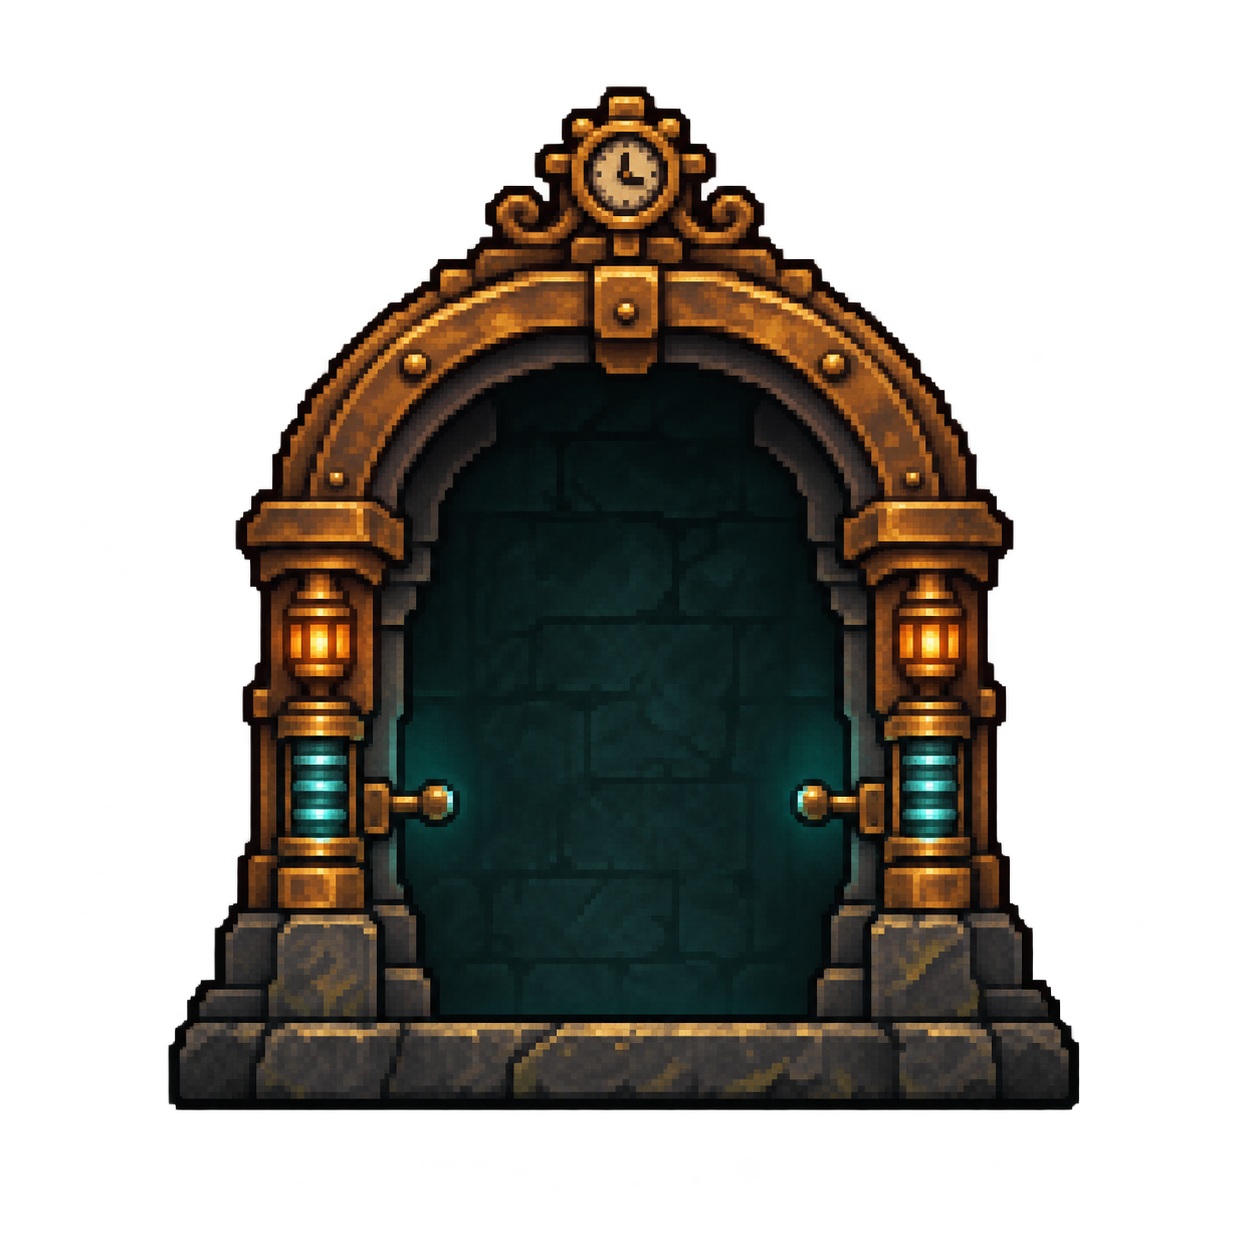
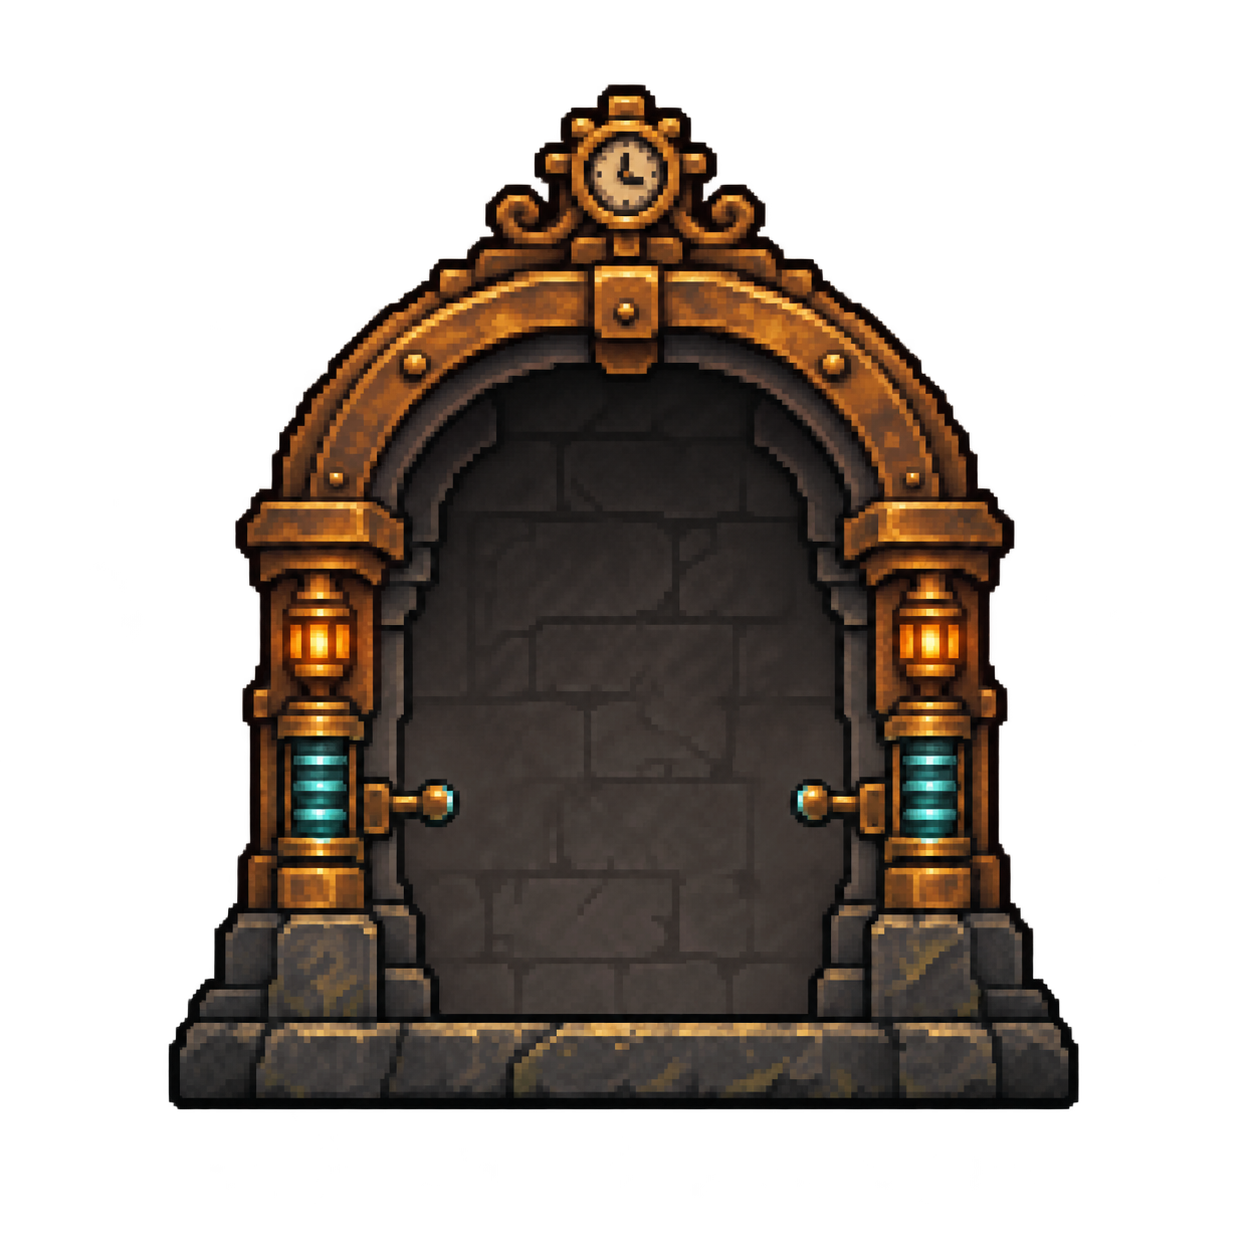
fix: neutral charging chamber and grounded station furnishings

diff --git a/docs/project/worklines/player_presentation_01/scope.md b/docs/project/worklines/player_presentation_01/scope.md
@@ -1,22 +1,26 @@
 # PLAYER-PRESENTATION-01 当前交接
 
-目标：正式主角保持既有体型，完成可见走入充电站、接通电流、恢复和走出的完整休息表现。进度由[任务表](../../tasks.md)维护；最新发布身份见[工作台交接](../mobile_level_workbench_01/scope.md)。
+目标：正式主角保持既有体型，完成走入充电站、接通电流、恢复和走出的完整休息表现；小站服务物件与NPC有完整、稳定的地面支撑。进度由[任务表](../../tasks.md)维护；最新发布身份见[工作台交接](../mobile_level_workbench_01/scope.md)。
 
 运行源码`e2c08e628cbd52c53d3541a30d20166389de0a94`已发布工作台r66；当前分支`fix/stargate-contact-route`，沿已授权`feat/world-review-stargate`接续PR147。未改房间布局、角色碰撞、跳跃、反冲或已接入的渐进贴墙参数。正式入口与工作台共用实现。
 
 ## 当前实现
 
 - 充电补帧与已校准的苏醒、贴墙、上下查看统一以当前正式默认角色motion_v1首帧为母版；头部、胸腹、靴子宽度及原脚底偏移按44wu显示尺度检查。充电使用10张独立姿态，退出接回当前原待机，不用旋转／缩放站姿代替进入和走出。源图、请求、统一尺度与锚点收据归[素材目录](../../../../assets/player_presentation_01/charging/README.md)。
-- WorldRestSequence拥有趋近、入舱、充电、出舱和临时冻结；实际趋近沿PlayerMotor碰撞步进，途中失去支撑、挡路或新伤害会取消。WorldChargingStation使用黄铜拱架、暗色内壁、侧线圈、前柱和底槛分层，适配正式角色尺度并与草边接地。旧六帧站体和瞬时恢复光环消费者退休。
+- WorldRestSequence拥有趋近、入舱、充电、出舱和临时冻结；实际趋近沿PlayerMotor碰撞步进，途中失去支撑、挡路或新伤害会取消。WorldChargingStation使用黄铜拱架、暖灰石质内腔、侧线圈、前柱和底槛分层；青绿只留在线圈与电流，适配正式角色尺度并与草边接地。旧六帧站体和瞬时恢复光环消费者退休。
 - FixedWorldApp仍为休息提交唯一主人。充电中段仅提交一次；成功才恢复HP、登记复位点并推进周期，播放恢复音与柔光。失败不改变资源与周期、不播成功反馈。共鸣、永久事实和当前房间怪物的延迟刷新规则保持，详见[休息与保存](../../../bible/home_and_save.md)。
 - 电流和接通／恢复声音使用共享GameAudio有界声部，显式冻结世界时允许播放。暂停菜单冻结姿态、电流和声音；切房、退出、生命周期变化清除临时所有权。没有独立无限声源或无界粒子。
 - 数值归RestPresentation资源：入舱0.64秒、充电1.4秒（0.85秒提交）、出舱0.72秒；闪光0.55秒，峰值透明度0.075，减弱特效0.025。苏醒、查看和墙面能力的既有规范不变。
+
+- P01回收匠与柜台位于升降井东岸固定地面，归途钟台底座完整收在西岸，储物箱位于棚屋右侧；风铃架、路灯、告示与剧情NPC按实际平台接地。平台、两段载台和通路配置未改。
 
 ## 检查与边界
 
 `tests/test_player_pose_registration.py`六项检查真实母版、中性头身／靴子宽度、脚底登记、统一缩放、充电帧差异及站体前后层像素来源。`rest-station`检查正常恢复、重复交互、保存失败、暂停、阻挡趋近、同帧伤害优先、减弱特效、切房和返回标题；`focus_heal`24项与`demo_regressions`20项分别验证共鸣不被休息重置、当前房间不当场复活敌人及离开后刷新。本次纠正后者过时的怪物ID，使其重新指向当前P21出口守卫。
 
-日常CI四项与文档检查通过。正常Godot窗口按P01局部起点检查原待机→趋近→入舱→充电→退出接续，站体根基、底槛遮挡和身体尺度已实看；P02/P16/P27/Z01四处室内外站点也经实际运行、合屏检查与完整恢复退出，合计五处；短片保留正常60fps与实际混音，临时日志、截图和录屏在`build/round9/`。发布与下载链接归工作台交接。
+本轮6项比例／素材登记检查、`station-grounding`与日常CI四项通过。接地专项在P01检查NPC双脚、摆件底座左右端与中心均有固定地面，拒绝把移动载台当永久支撑，并从实际站位触发两位服务NPC交互。正常Godot窗口实看西岸站体、完整充电、服务区、棚屋、东侧与高处落台，临时证据位于`build/round10/`。
+
+既有休息事务专项与P02/P16/P27/Z01完整恢复检查来自上一轮，不能代替这些房间所有装饰的接地审核。此前只验站体，遗漏P01相邻物件沿用旧坐标；现行美术规范已要求对整个底座与相邻平台一起检查。发布与下载链接归工作台交接。
 
 自动音频检查证明事件、峰值和生命周期，不代表安卓扬声器听感已认可；软件OpenGL录像不能代签实体手机性能。没有重验全部35房连续主环或其他剧情。
 

diff --git a/docs/bible/visual_bible.md b/docs/bible/visual_bible.md
@@ -10,7 +10,7 @@
 
 角色、弹道、危险预告和落点最清晰。远景低对比，中景承接大体量和区域地标，近景稀疏且避开唯一通路。附属于可玩地面的棚屋、建筑和道具使用世界坐标及所属支撑，不能把实体素材降对比并施加后景视差来制造层次；独立后景须有自己的地面、距离和遮挡关系。暖光与清透空气透视按场景目的使用；区域特色由材料、生态、结构、形体及色光表达。
 
-岩壁有连续体量与断面，建筑有根基，藤枝有真实宿主；拱门只在真实门洞或桥梁结构中使用，不把整座石拱反复立在道路和薄平台上充当地标。支撑件按实际梁底、地面和两岸高差拼装，材质对比与远近层次一致；平台、端头、填充和附件分别处理。贴地道具按可见基座与地形接触面定位，柱顶对齐实际梁底；不能只把PNG外接框下沿设为地面就认为接地完成。沿镜头移动和上下层观察接触缝，不用统一下移掩盖不同素材的锚点问题。刺与危险的实际方向、支撑及碰撞一致。材质切片、边界与光照不制造可站立性的假象。封闭室内使用相应墙体、梁架、轴系与局部灯光；室外天空、完整风车外立面、远山和自动草丛不混入室内。室内外门口由实际连接决定，使用建筑侧缘/洞井开口和内暗外亮的纵深提示，避免室外直接触碰无建筑的边界就切到室内。窗外景物须有明确窗洞和遮挡，破损处植被须有具体生长位置；同一室内判定同时约束背景、前景、地形材质和环境粒子。
+岩壁有连续体量与断面，建筑有根基，藤枝有真实宿主；拱门只在真实门洞或桥梁结构中使用，不把整座石拱反复立在道路和薄平台上充当地标。支撑件按实际梁底、地面和两岸高差拼装，材质对比与远近层次一致；平台、端头、填充和附件分别处理。贴地道具按可见基座与地形接触面定位，柱顶对齐实际梁底；NPC双脚及道具整个底座须有同层真实支撑，不能只校中心点，也不能借临时升降台遮住悬空。平台或井口改形后，同步重排依附物并从两侧复查；不能只把PNG外接框下沿设为地面就认为接地完成。沿镜头移动和上下层观察接触缝，不用统一下移掩盖不同素材的锚点问题。刺与危险的实际方向、支撑及碰撞一致。材质切片、边界与光照不制造可站立性的假象。封闭室内使用相应墙体、梁架、轴系与局部灯光；室外天空、完整风车外立面、远山和自动草丛不混入室内。室内外门口由实际连接决定，使用建筑侧缘/洞井开口和内暗外亮的纵深提示，避免室外直接触碰无建筑的边界就切到室内。窗外景物须有明确窗洞和遮挡，破损处植被须有具体生长位置；同一室内判定同时约束背景、前景、地形材质和环境粒子。
 
 远处大型地标必须和其所在山体、雾层共享稳定的景深参照。P32世界钟心塔属于完整背景底板，塔基由远山和谷雾遮住；不把可见底座的建筑剪影独立贴在近景平台上，也不随切镜头重新寻找近景落地高度。
 

diff --git a/docs/project/worklines/mobile_level_workbench_01/scope.md b/docs/project/worklines/mobile_level_workbench_01/scope.md
@@ -38,8 +38,8 @@ V-R12职责见[区域规范](../../../bible/regions/starbridge_gate.md)与该区
 
 逐房内容和验证归[平原当前交接](../plains_bible_v2_01/scope.md)，森林连接的空间分工与候选范围归[森林当前交接](../forest_bible_v2_01/scope.md)。工作台显示弹跃锚／停驻环功能区别、实际机关名称和齿轮完整往复轨迹，避免把回程开关标成不明“交付物”。
 
-- 主角苏醒／贴墙／查看及充电补帧统一以正式默认待机为母版，保持头身和原脚底偏移。充电站改为开放黄铜舱体，10张进出／接通姿态消费原休息事务；电流、恢复音和柔和刷新在实际事件同步，保存失败不发成功反馈。
-- 本轮6项母版／头身／脚底／分层像素检查、休息流程与失败／暂停／取消／阻挡／伤害优先专项、24项共鸣回复、20项敌人状态回归、日常CI四项及文档检查通过。P01/P02/P16/P27/Z01五站实际运行，检查站体落地、前后遮挡及完整恢复退出。未改运动参数或房间布局。
+- 主角苏醒／贴墙／查看及充电补帧统一以正式默认待机为母版，保持头身和原脚底偏移。充电站采用黄铜舱体与暖灰内腔，青绿只用于线圈／电流，10张进出／接通姿态消费原休息事务；电流、恢复音和柔和刷新在实际事件同步，保存失败不发成功反馈。
+- 本轮6项比例／素材登记、P01固定地面支撑专项与日常CI四项通过。回收匠／柜台移至升降井东岸，钟台收回西岸，箱子移至棚屋右侧；风铃架、路灯、告示与剧情NPC按固定平台接地。正常窗口实看西岸、服务区及高处落台；平台和升降路线未改。上一轮休息事务、共鸣回复与敌人状态专项及五站完整恢复证据仍有效，不代表全区摆件已检查。
 - 新运行包通过真实PCK探针，正式6房、编辑37房、15种怪物可装载；线上包134,713,788字节，低于现行129MiB上限。原始生成图和比例对照不进入运行包。
 - 迁移保留更新前最新的三处人工房间。其余关卡／剧情／怪物／森林规划验证边界沿相应工作线，Site仍为V18。
 - 可下载[充电站完整进出与恢复短片](https://raw.githubusercontent.com/zhipijun1996/gunman-rush/24e6c7bbf3b790810e5482c9cb2f1707ba0f97fc/charging-rest.mp4)和[角色同尺度对照](https://raw.githubusercontent.com/zhipijun1996/gunman-rush/24e6c7bbf3b790810e5482c9cb2f1707ba0f97fc/proportions.png)。短片约6秒、466,776字节，60fps正常速度，含实际混音；使用P01声明局部起点和2HP前置，不代表从开场连续走到小站。链接读回哈希一致，源码身份归同分支media.json。

diff --git a/assets/player_presentation_01/charging/README.md b/assets/player_presentation_01/charging/README.md
@@ -4,7 +4,7 @@
 
 `generated/player.png` 是12帧独立源：0/11中性比例对照，1–4转身踏入与接点，4–6充电姿态，7–10松手、转身、迈出。运行只使用1–10，退出直接回接原角色待机。`tools/build_player_charging.py` 对完整单元使用一个46/250最近邻尺度和整数锚点登记；不逐帧拉伸。运行图集80×64单元，脚底锚点40/58，轻微纵深偏移只属于表现，不改变角色碰撞与物理。
 
-`generated/station.png` 为开放式站体；原站体参考保存在同目录 `station-reference.png`，生成请求在 `request.json`。统一缩至84px高，登记在96×96画布48/92锚点。`station_front.png` 只提取原图前柱与底槛，人物跨槛时改变遮挡层次；基座下沉3wu与现有草边接地，物理和休息落点不变。`WorldChargingStation` 绘制两侧接点、有限电流支路与横向流动光核和短暂恢复光，不生成无限粒子或逐帧重建纹理。
+`generated/station.png` 为暖灰石色内腔的开放式站体，青绿只用于侧线圈与电流；原站体参考保存在同目录 `station-reference.png`，生成请求在 `request.json`。统一缩至84px高，登记在96×96画布48/92锚点。`station_front.png` 只提取原图前柱与底槛，人物跨槛时改变遮挡层次；基座下沉3wu与现有草边接地，物理和休息落点不变。`WorldChargingStation` 绘制两侧接点、有限电流支路与横向流动光核和短暂恢复光，不生成无限粒子或逐帧重建纹理。
 
 时间、闪光强度和趋近速度统一由 `game/presentation/world/station/rest_presentation.tres` 及其Resource默认值维护。世界冻结期间仅角色、站体与应用序列推进；暂停菜单冻结这些表现和对应声音。成功才单次柔光，减弱特效设置进一步减弱。进出使用真实补帧，站前趋近由PlayerMotor碰撞步进执行。
 

diff --git a/docs/bible/home_and_save.md b/docs/bible/home_and_save.md
@@ -15,7 +15,7 @@
 
 ## 充电站休息表现
 
-玩家在充电站同层安全地面明确交互后，先走到舱口，再以独立转身、踏入和接通姿态进入站内。黄铜拱架与侧线圈分前后层，站内保留足够容纳正式44wu角色的空间；不缩小角色、不旋转站姿代替进出补帧。站内电流沿两侧接点绕过身体，短暂抬肩、披巾轻动，随后放开接点、转身迈出，接回原待机。
+玩家在充电站同层安全地面明确交互后，先走到舱口，再以独立转身、踏入和接通姿态进入站内。黄铜拱架与侧线圈分前后层，内腔使用低饱和暖灰石色暗部，青绿色仅标识线圈与电流；站内保留足够容纳正式44wu角色的空间；不缩小角色、不旋转站姿代替进出补帧。站内电流沿两侧接点绕过身体，短暂抬肩、披巾轻动，随后放开接点、转身迈出，接回原待机。
 
 休息期间冻结世界玩法，保留站体、角色和电流表现；操作锁定，重复交互不重复提交，暂停菜单可冻结当前过程。切房、角色生命周期变化或退出时清理临时姿态、声音与闪光并释放冻结；不可跨旧角色继续提交。走向舱口受真实碰撞约束，地面不同层、途中阻挡或失去支撑则取消，不强制穿墙定位。
 

diff --git a/docs/project/tasks.md b/docs/project/tasks.md
@@ -22,7 +22,7 @@
 | WINDKEEPER-PRESSURE-01 | 牧风者招式成果与新攻击档位适配审核 | — | review | [交接](worklines/windkeeper_pressure_01/scope.md) |
 | BELLSTRIDER-REWORK-01 | 鸣铃巡游机的唯一弱点、三招、回冲与奖励验收 | — | review | [交接](worklines/bellstrider_rework_01/scope.md) |
 | ENEMY-ALL-02 | 全现存怪物同体动作与实机审核 | — | review | [交接](worklines/enemy_all_02/scope.md) |
-| PLAYER-PRESENTATION-01 | 充电站进出补帧、电流／恢复音与柔和刷新，五站验证并发布r66 | — | review | [交接](worklines/player_presentation_01/scope.md) |
+| PLAYER-PRESENTATION-01 | 充电站进出补帧与暖灰内腔；小站NPC及摆件按固定平台接地，待新版试玩绑定 | — | review | [交接](worklines/player_presentation_01/scope.md) |
 
 - `DEATH-RUNTIME-01`：聚合首用／战斗／死亡性能链，在同版真实设备复验；技术合入不代签帧时间。
 - `MOBILE-WEB-FPS-04`：实体手机复验普通 Web 帧时间、供音与大图；承接 MOBILE-WEB-PERF/AUDIO 系列。
